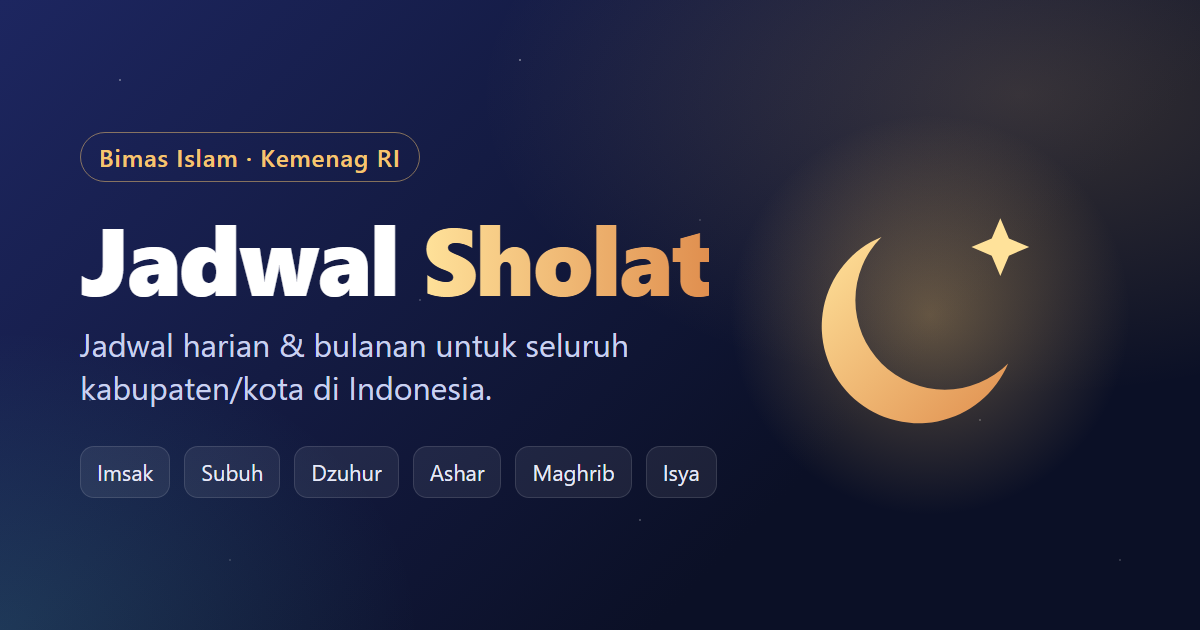
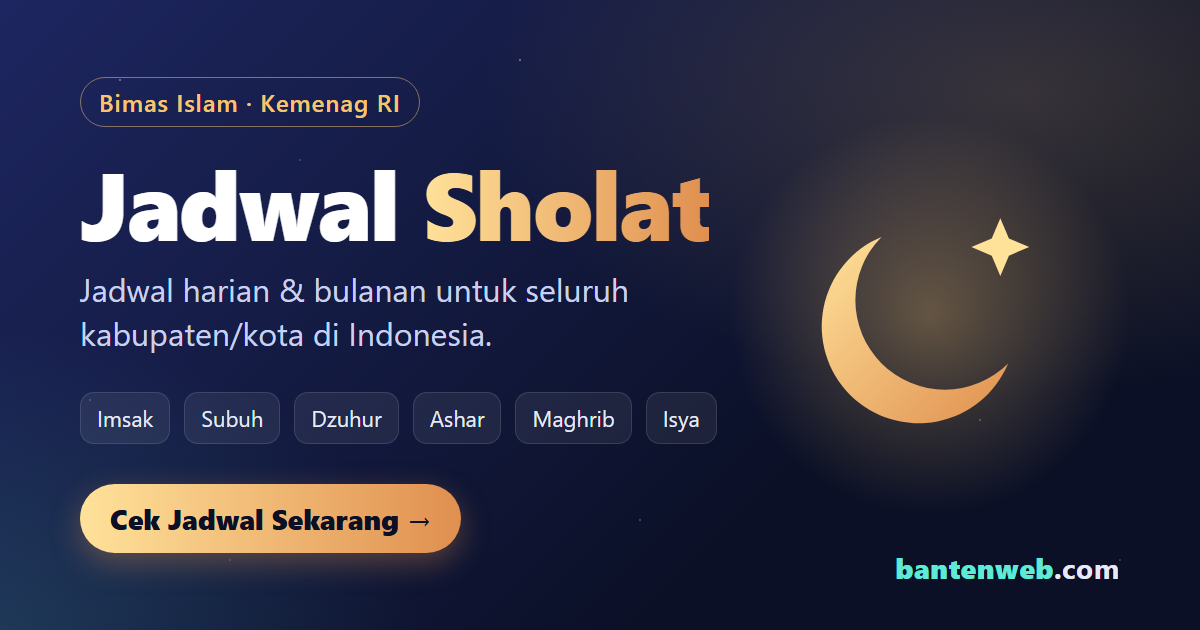
OG: tambah CTA & bantenweb.com di gambar, perpanjang judul halaman

diff --git a/index.html b/index.html
@@ -3,7 +3,7 @@
 <head>
 <meta charset="utf-8">
 <meta name="viewport" content="width=device-width, initial-scale=1, viewport-fit=cover">
-<title>Jadwal Sholat</title>
+<title>Jadwal Sholat Hari Ini — Seluruh Kabupaten/Kota di Indonesia</title>
 <meta name="description" content="Jadwal sholat harian dan bulanan untuk seluruh kabupaten/kota di Indonesia, bersumber dari Bimas Islam Kementerian Agama RI.">
 <link rel="canonical" href="https://jadwal-sholat-khaki.vercel.app/">
 <meta property="og:type" content="website">
@@ -12,8 +12,8 @@
 <meta property="og:url" content="https://jadwal-sholat-khaki.vercel.app/">
 <meta property="og:title" content="Jadwal Sholat — Seluruh Kabupaten/Kota di Indonesia">
 <meta property="og:description" content="Jadwal sholat harian dan bulanan untuk seluruh kabupaten/kota di Indonesia, bersumber dari Bimas Islam Kementerian Agama RI.">
-<meta property="og:image" content="https://jadwal-sholat-khaki.vercel.app/assets/img/og-image.png">
-<meta property="og:image:secure_url" content="https://jadwal-sholat-khaki.vercel.app/assets/img/og-image.png">
+<meta property="og:image" content="https://jadwal-sholat-khaki.vercel.app/assets/img/og-image.png?v=2">
+<meta property="og:image:secure_url" content="https://jadwal-sholat-khaki.vercel.app/assets/img/og-image.png?v=2">
 <meta property="og:image:type" content="image/png">
 <meta property="og:image:width" content="1200">
 <meta property="og:image:height" content="630">
@@ -21,7 +21,7 @@
 <meta name="twitter:card" content="summary_large_image">
 <meta name="twitter:title" content="Jadwal Sholat — Seluruh Kabupaten/Kota di Indonesia">
 <meta name="twitter:description" content="Jadwal sholat harian dan bulanan untuk seluruh kabupaten/kota di Indonesia, bersumber dari Bimas Islam Kementerian Agama RI.">
-<meta name="twitter:image" content="https://jadwal-sholat-khaki.vercel.app/assets/img/og-image.png">
+<meta name="twitter:image" content="https://jadwal-sholat-khaki.vercel.app/assets/img/og-image.png?v=2">
 <meta name="twitter:image:alt" content="Jadwal Sholat — jadwal harian dan bulanan dari Bimas Islam Kemenag RI">
 <meta name="theme-color" content="#0b1026">
 <meta name="color-scheme" content="dark">
